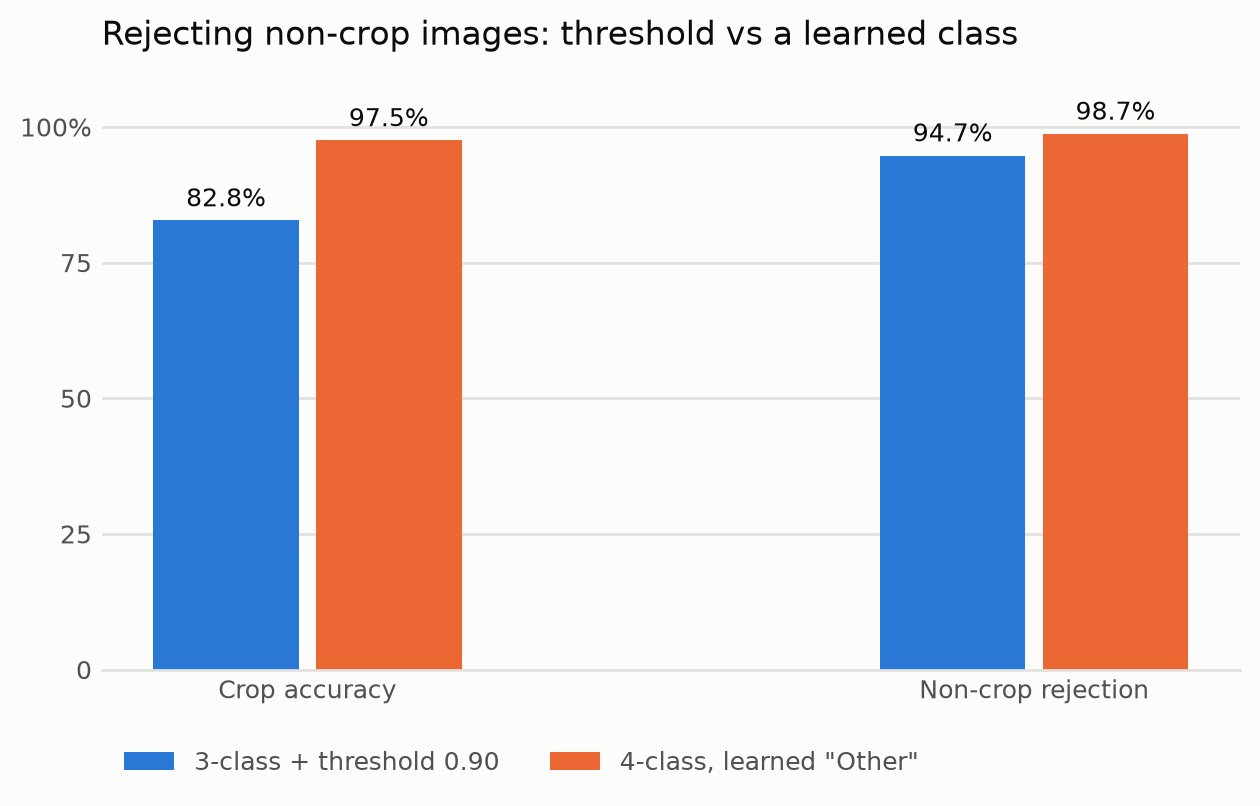
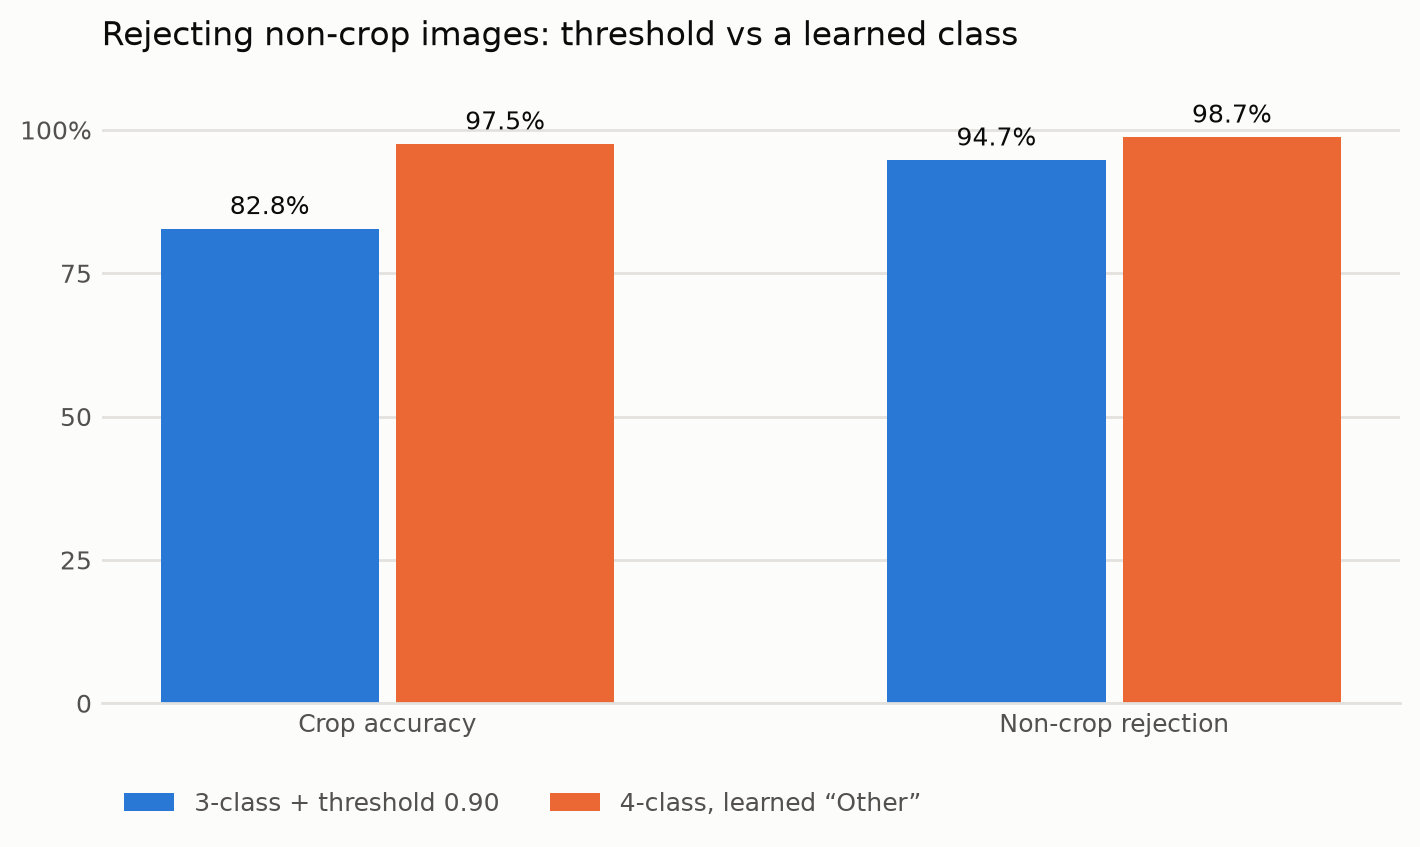
fix(benchmark): one entry per detector run, and record where the accuracy is
_collect_yolo() scanned every runs/*/results.csv, kept only the single highest
mAP, and hardcoded the label "yolo26n". With the capacity sweep present it
therefore reported yolo26m's 0.31004 under yolo26n's name — a wrong number under
a wrong label, and the aggregator claimed "Detectors found: 1" while three YOLO
runs and RT-DETR sat on disk.

Replaced with _collect_ultralytics(), which emits one entry per run, derives the
label from the run directory, includes outputs/rtdetr_output, and reports
mAP@0.5:0.95, epochs and best epoch alongside. Parameter counts are read from the
archived weights/ snapshots where available. Now finds all four and labels them
correctly.

With that fixed the comparison is meaningful, so docs/08_next_steps.md gains a
measured "where the accuracy actually is" section. Two diagnostics on the training
data, both measured:

- Objects are tiny: median box is 0.27% of image area (~33x33 px at 640) and
  48.2% of boxes are COCO-"small". Source images are not square (640x480,
  640x288, …), so the long side is already capped at 640 and they have been
  downscaled — re-exporting from Roboflow at higher resolution would be a real
  information gain rather than upsampling.
- Classes are imbalanced 190x. Pepper_Early_Blight has 22 boxes in the entire
  training split against Tomato_Septoria's 4,198, and three classes have under
  100. Since mAP averages over classes, a few starved classes drag the headline
  down disproportionately.
[…]

diff --git a/src/benchmark/compare_models.py b/src/benchmark/compare_models.py
@@ -80,37 +80,90 @@ def _collect_benchmark_jsons() -> list[dict]:
     return records
 
 
-def _collect_yolo() -> Optional[dict]:
-    """Pull best mAP@0.5 from an Ultralytics results.csv (if a YOLO run exists)."""
-    candidates = list((PROJECT_ROOT / "runs").glob("*/results.csv")) if (PROJECT_ROOT / "runs").exists() else []
-    candidates += list((OUTPUTS / "yolo_output").glob("**/results.csv")) if (OUTPUTS / "yolo_output").exists() else []
-    best = None
-    used = None
-    for csv_path in candidates:
+def _run_label(run_dir: Path) -> tuple[str, str]:
+    """Map an Ultralytics run directory to (model_name, architecture)."""
+    n = run_dir.name
+    table = {
+        "crop_disease_yolo26":  ("yolo26n",  "YOLO26n (Ultralytics)"),
+        "crop_disease_yolo26s": ("yolo26s",  "YOLO26s (Ultralytics)"),
+        "crop_disease_yolo26m": ("yolo26m",  "YOLO26m (Ultralytics)"),
+        "crop_disease_rtdetr":  ("rtdetr-l", "RT-DETR-L (query head, no NMS)"),
+    }
+    if n in table:
+        return table[n]
+    return (n.replace("crop_disease_", ""), n.replace("crop_disease_", ""))
+
+
+def _archived_params(model_name: str) -> Optional[float]:
+    """Parameter count from a weights/ snapshot, if one was archived."""
+    arch = PROJECT_ROOT / "weights"
+    if not arch.exists():
+        return None
+    for d in sorted(arch.iterdir(), reverse=True):
+        mf = d / "MANIFEST.json"
+        if d.is_dir() and mf.exists():
+            try:
+                m = json.loads(mf.read_text())
+            except Exception:
+                continue
+            if m.get("model") == model_name and (d / "best.pt").exists():
+                try:
+                    import torch
+                    ck = torch.load(d / "best.pt", map_location="cpu", weights_only=False)
+                    mdl = ck.get("model")
+                    if mdl is not None:
+                        return sum(pp.numel() for pp in mdl.parameters())
+                except Exception:
+                    return None
+    return None
+
+
+def _collect_ultralytics() -> list:
+    """One entry per Ultralytics run — YOLO variants and RT-DETR alike.
+
+    The previous version scanned every run, kept only the single highest mAP and
+    hardcoded the label "yolo26n". With a capacity sweep present that reported the
+    LARGEST model's score under the SMALLEST model's name — a wrong number under a
+    wrong label, which is exactly the kind of thing that reaches a paper unnoticed.
+    """
+    roots = []
+    if (PROJECT_ROOT / "runs").exists():
+        roots += list((PROJECT_ROOT / "runs").glob("*/results.csv"))
+    for sub in ("yolo_output", "rtdetr_output"):
+        d = OUTPUTS / sub
+        if d.exists():
+            roots += list(d.glob("**/results.csv"))
+
+    out = []
+    for csv_path in sorted(roots):
         try:
             with open(csv_path) as f:
                 rows = list(csv.DictReader(f))
-            col = next((c for c in (rows[0].keys() if rows else [])
-                        if "mAP50" in c and "50-95" not in c), None)
+            if not rows:
+                continue
+            col = next((c for c in rows[0] if "mAP50" in c and "50-95" not in c), None)
+            col95 = next((c for c in rows[0] if "mAP50-95" in c), None)
             if not col:
                 continue
-            vals = [float(r[col]) for r in rows if r.get(col) not in (None, "", "nan")]
-            if vals:
-                m = max(vals)
-                if best is None or m > best:
-                    best, used = m, csv_path
+            best_row = max(rows, key=lambda r: float(r.get(col) or 0))
+            best = float(best_row[col])
+            if best <= 0:
+                continue
         except Exception:
             continue
-    if best is None:
-        return None
-    return {
-        "model_name": "yolo26n",
-        "architecture": "YOLO26n (Ultralytics)",
-        "map50": round(best, 5),
-        "num_params": None,
-        "per_class_ap": {},
-        "source": str(used.relative_to(PROJECT_ROOT)),
-    }
+        name, arch = _run_label(csv_path.parent)
+        out.append({
+            "model_name": name,
+            "architecture": arch,
+            "map50": round(best, 5),
+            "map50_95": round(float(best_row[col95]), 5) if col95 else None,
+            "epochs": len(rows),
+            "best_epoch": int(float(best_row.get("epoch", 0))),
+            "num_params": _archived_params(name),
+            "per_class_ap": {},
+            "source": str(csv_path.relative_to(PROJECT_ROOT)),
+        })
+    return out
 
 
 def _collect_alt_selected() -> Optional[dict]:
@@ -194,9 +247,10 @@ def _dedupe(records: list[dict]) -> list[dict]:
 
 def build_comparison() -> dict:
     detectors = _collect_benchmark_jsons()
-    for extra in (_collect_yolo(), _collect_alt_selected()):
-        if extra:
-            detectors.append(extra)
+    detectors += _collect_ultralytics()
+    extra = _collect_alt_selected()
+    if extra:
+        detectors.append(extra)
     detectors = _dedupe(detectors)
     detectors.sort(key=lambda r: (r["map50"] is None, -(r["map50"] or 0)))
     classifier = _collect_classifier()

diff --git a/docs/08_next_steps.md b/docs/08_next_steps.md
@@ -70,6 +70,64 @@ changing batch between variants confounds a capacity comparison, so hold it cons
 if you repeat the sweep.
 ---
 
+## Where the accuracy actually is — measured 2026-08-05
+
+All four detectors below trained on the same 5,239-image YOLO-format split, so
+these are directly comparable. Full table and charts:
+[`outputs/benchmarks/comparison_table.md`](../outputs/benchmarks/comparison_table.md).
+
+| Model | Params | mAP@0.5 | mAP@0.5:0.95 |
+| ----- | ------ | ------- | ------------ |
+| yolo26n | 2.51M | 0.2904 | 0.1162 |
+| yolo26s | 9.97M | 0.3054 | 0.1208 |
+| yolo26m | 21.81M | 0.3100 | 0.1218 |
+| **rtdetr-l** | ~32M | **0.3446** | **0.1438** |
+
+Two diagnostics on the training data explain the absolute level, and point at what
+to fix. Both are measured, not assumed:
+
+**Objects are tiny.** The median box is **0.27 % of image area** — about 33x33 px at
+640 — and **48.2 % of all boxes are COCO-"small"** (under 32x32 equivalent). Detection
+accuracy is famously resolution-sensitive in exactly this regime.
+
+**Classes are severely imbalanced — 190x** between the most and least common.
+Pepper_Early_Blight has **22 boxes** in the whole training split; Tomato_Septoria has
+4,198. Three of 23 classes have under 100. Because mAP averages over classes, a
+handful of starved classes drags the headline number down disproportionately.
+
+### Ranked by expected return
+
+1. **Train at higher resolution — cheapest large win.** With half the boxes under
+   32x32 px, going from `imgsz=640` to 1024 or 1280 gives each lesion several times
+   more feature-map cells. Note the source images are **not** square (640x480,
+   640x288, 640x426 …): the long side is already capped at 640, so they have been
+   downscaled. **Re-exporting from Roboflow at a higher resolution would be a real
+   information gain, not just upsampling** — worth checking what the originals are.
+
+2. **Collect for the rare classes specifically, not uniformly.** Adding images of
+   Pepper_Early_Blight (22 boxes) is worth far more per image than more
+   Tomato_Septoria (4,198). This sharpens the earlier "collect more data" conclusion
+   into something targetable. Class-balanced sampling or focal loss is the
+   no-new-data version of the same idea.
+
+3. **Prefer architecture over capacity.** RT-DETR-L beats yolo26m by **+11.2 %** for
+   roughly 1.5x the parameters, whereas scaling YOLO itself bought only +6.8 % for
+   8.7x. The query-based head suits this data; DINO / Deformable-DETR are the natural
+   next candidates. (Note RT-DETR's `.pte` is 123 MB — a research win, not yet a
+   mobile one.)
+
+4. **Exploit the two-stage pipeline in evaluation.** The Stage-1 classifier is 97.5 %
+   accurate, and narrowing to a crop reduces the detector's problem from 23 classes
+   to 5 / 10 / 8. Detector-alone mAP therefore understates end-to-end performance —
+   worth measuring the pipeline as deployed rather than only its parts.
+
+5. **Question the hue augmentation.** Disease is signalled largely by colour, yet the
+   pipeline applies `ColorJitter(hue=0.05)`. It is also the single most expensive CPU
+   op in the loader (13.6 ms/image of a 24 ms budget). An ablation with hue disabled
+   is cheap and could plausibly help accuracy *and* throughput.
+
+---
+
 ## Tier 1 — highest impact for the paper
 
 ### 1. RT-DETR / DETR-style query head (transformer *detection paradigm*) — [OK] DONE (`src/rtdetr/`)

diff --git a/outputs/benchmarks/comparison_table.md b/outputs/benchmarks/comparison_table.md
@@ -1,0 +1,16 @@
+# Model Benchmark — Crop Disease Detection
+
+## Detection models (Stage 2)
+
+| Model | Architecture | mAP@0.5 | Params (M) | Source |
+| ----- | ------------ | ------- | ---------- | ------ |
+| `rtdetr-l` | RT-DETR-L (query head, no NMS) | 0.345 | — | outputs/rtdetr_output/crop_disease_rtdetr/results.csv |
+| `yolo26m` | YOLO26m (Ultralytics) | 0.310 | 21.8 | runs/crop_disease_yolo26m/results.csv |
+| `yolo26s` | YOLO26s (Ultralytics) | 0.305 | 10.0 | runs/crop_disease_yolo26s/results.csv |
+| `yolo26n` | YOLO26n (Ultralytics) | 0.290 | 2.5 | runs/crop_disease_yolo26/results.csv |
+
+## Stage-1 classifier (reported separately — classification task)
+
+| Model | Best val acc | Best val F1 |
+| ----- | ------------ | ----------- |
+| EfficientNet-B2 (Stage-1 crop classifier) | 0.98047 | None |
